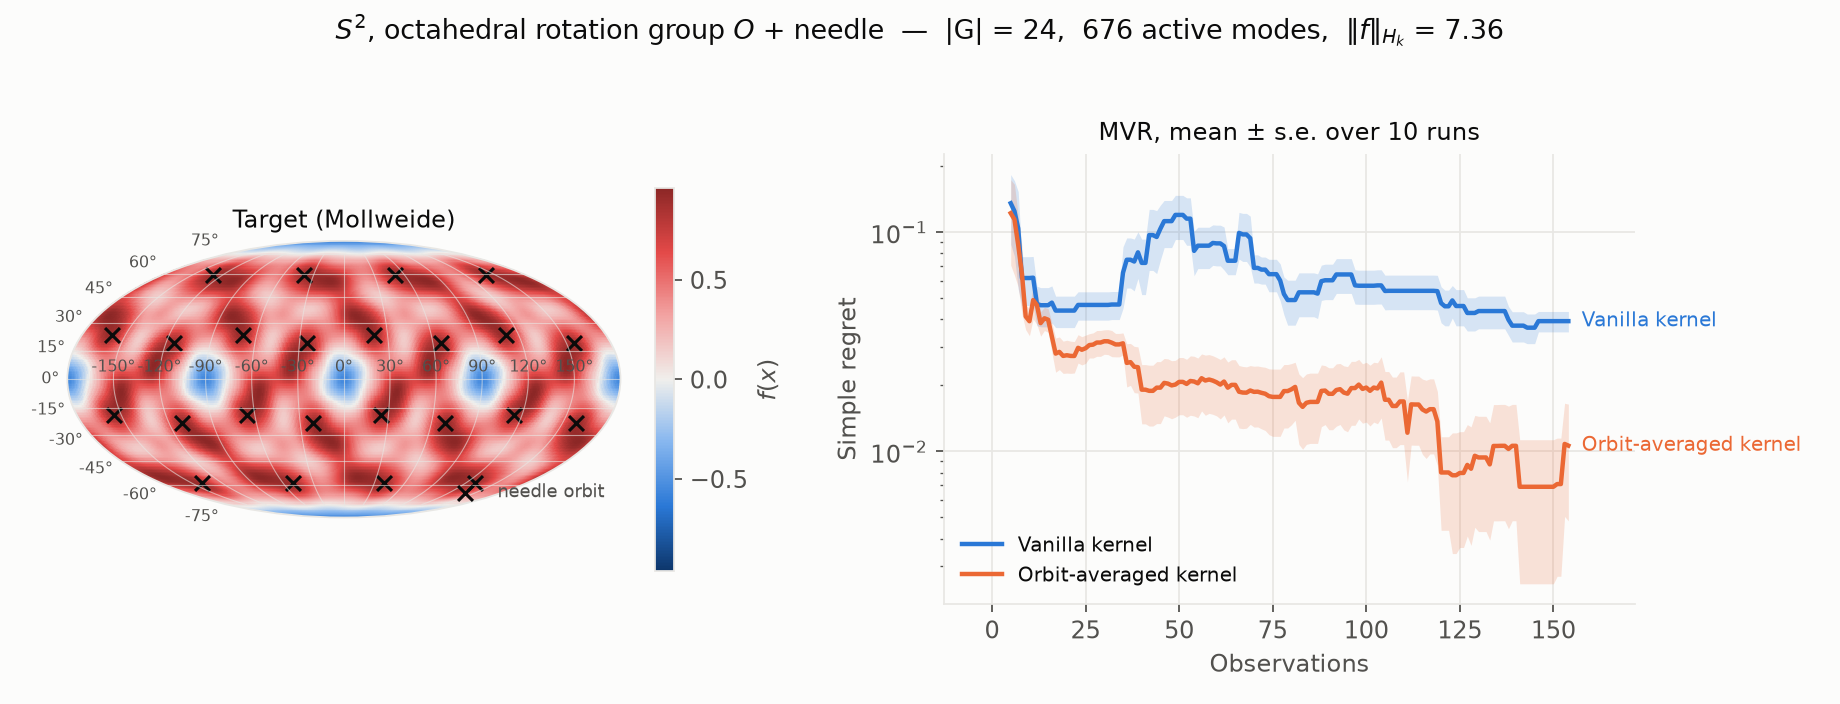
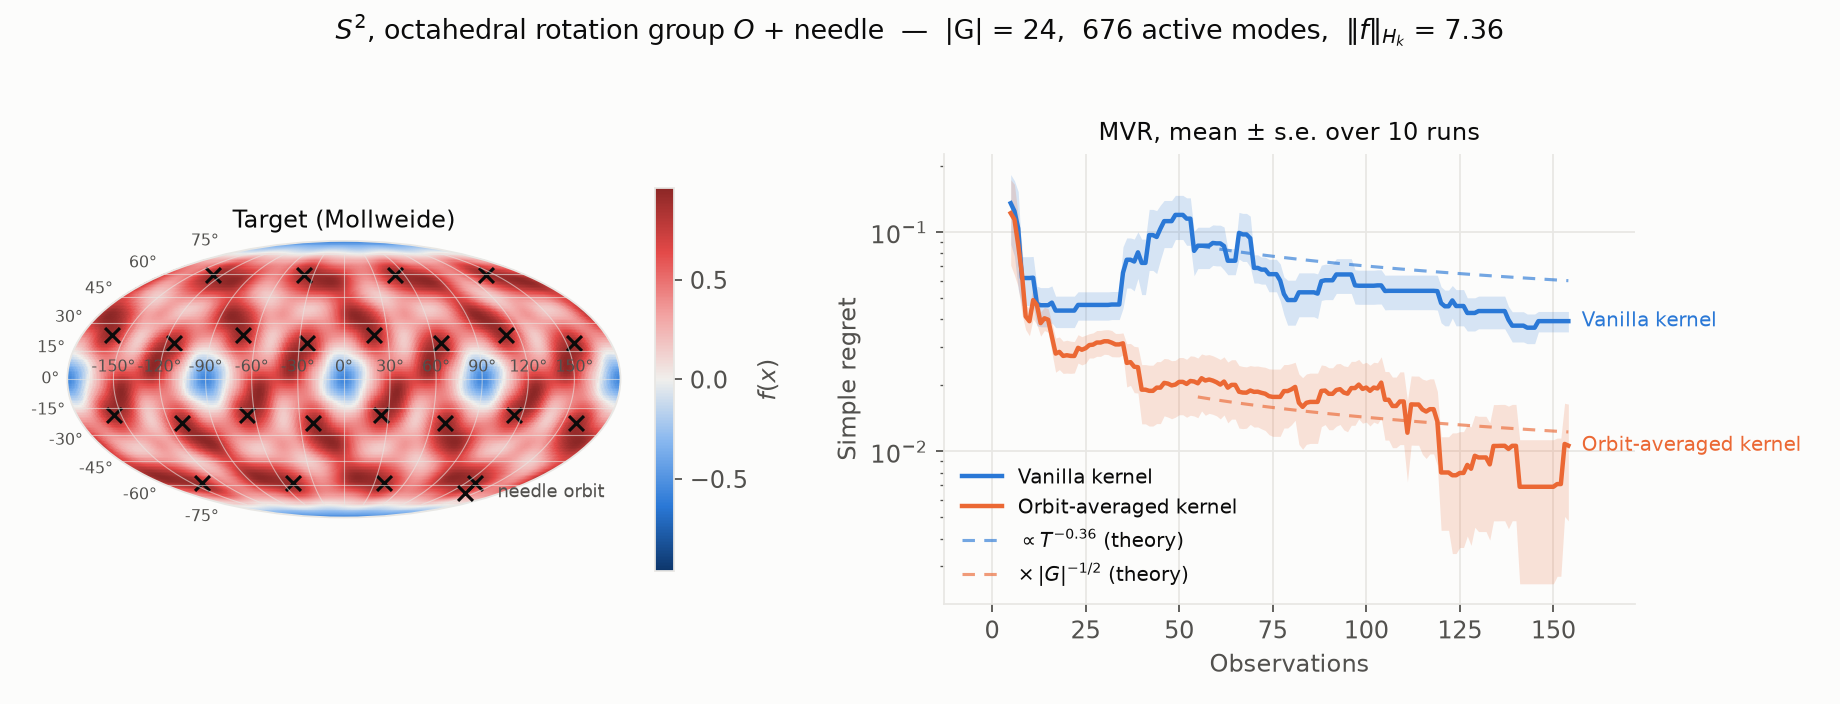
Overlay theoretical MVR rate on regret plots
Add guide lines from Theorem 1 (Brown et al. 2024): shared slope
T^{-nu/(2nu+m)} and the |G|^{-1/2} invariance offset, anchored to the
vanilla curve since constants and polylog factors are unspecified.

Claude-Session: https://claude.ai/code/session_01H31fnBjfFqJFN4gT8AR3sC

diff --git a/demos/manifold_rkhs/run_demo.py b/demos/manifold_rkhs/run_demo.py
@@ -30,7 +30,7 @@ from scipy.stats import qmc
 from groups import (apply_permutation, cyclic_permutation_group,
                     cyclic_rotation_group, octahedral_rotation_group,
                     permutation_group)
-from kernels import OrbitAveragedKernel, SphereMatern, WrappedMatern52
+from kernels import NU, OrbitAveragedKernel, SphereMatern, WrappedMatern52
 from mvr import run_mvr
 from targets import (SphereTarget, TorusTarget, make_sphere_target,
                      make_torus_target, sphere_needle_coeffs,
@@ -308,6 +308,32 @@ def plot_target_sphere(ax, exp):
 REGRET_FLOOR = 2e-4  # display floor; regret 0 = exact optimum on candidates
 
 
+def plot_theory_rate(ax, exp, results, n_obs):
+    """Overlay the theoretical MVR rate from Brown et al. (2024), Thm 1:
+    gamma_T^G = O~(T^{m/(2nu+m)} / |G|), hence simple regret
+    r_T = O~(B |G|^{-1/2} T^{-nu/(2nu+m)}), with m the manifold dimension.
+    Constants and polylog factors are unknown, so the vanilla guide is
+    anchored to the vanilla curve one-third of the way in; the invariant
+    guide is then fixed by the theoretical |G|^{-1/2} offset."""
+    m = exp["candidates"].shape[1] if exp["manifold"] == "torus" else 2
+    alpha = NU / (2.0 * NU + m)
+    i0 = len(n_obs) // 3
+    anchor = np.mean(results["vanilla"], axis=0)[i0]
+    if anchor <= REGRET_FLOOR:
+        return
+    span = slice(i0, None)
+    scale = anchor * n_obs[i0] ** alpha
+    guide = scale * n_obs[span] ** (-alpha)
+    offset = 1.0 / np.sqrt(len(exp["group"]))
+    ax.plot(n_obs[span], guide, color=SERIES["vanilla"], linestyle=(0, (4, 3)),
+            linewidth=1.4, alpha=0.65,
+            label=f"$\\propto T^{{-{alpha:.2f}}}$ (theory)")
+    ax.plot(n_obs[span], np.maximum(offset * guide, REGRET_FLOOR),
+            color=SERIES["invariant"], linestyle=(0, (4, 3)),
+            linewidth=1.4, alpha=0.65,
+            label="$\\times\\, |G|^{-1/2}$ (theory)")
+
+
 def plot_regret(ax, exp, results):
     n_obs = N_INIT + np.arange(exp["n_iter"])
     clipped = False
@@ -326,6 +352,7 @@ def plot_regret(ax, exp, results):
         ax.annotate(label, (n_obs[-1], max(mean[-1], REGRET_FLOOR)),
                     xytext=(6, 0), textcoords="offset points",
                     color=color, fontsize=9, va="center")
+    plot_theory_rate(ax, exp, results, n_obs)
     ax.set_yscale("log")
     ax.set_xlabel("Observations")
     ax.set_ylabel("Simple regret")

diff --git a/demos/manifold_rkhs/README.md b/demos/manifold_rkhs/README.md
@@ -88,6 +88,16 @@ Note the active-mode counts: 625–2197 versus the original 64–512 atoms, and 
 unlike atoms at sampleable locations — there is no set of input points whose
 observation linearly determines the target with fewer samples than modes.
 
+The regret panels overlay the theoretical MVR rate from Brown et al. (2024),
+Theorem 1: the information gain satisfies `γ_T^G = Õ(T^{m/(2ν+m)}/|G|)` (m =
+manifold dimension), giving simple regret `r_T = Õ(B |G|^{-1/2}
+T^{-ν/(2ν+m)})`. Since constants and polylog factors are not specified by the
+theory, the vanilla guide line is anchored to the vanilla curve one-third of
+the way through the run, and the invariant guide is placed at exactly the
+theoretical `|G|^{-1/2}` offset below it. Both kernels share the same slope
+in T; the |G| separation is the theory's testable prediction (an upper
+bound, so the empirical invariant curves may — and do — fall well below it).
+
 ## Files
 
 - `kernels.py` — wrapped torus Matérn-5/2, truncated sphere Matérn, plain
